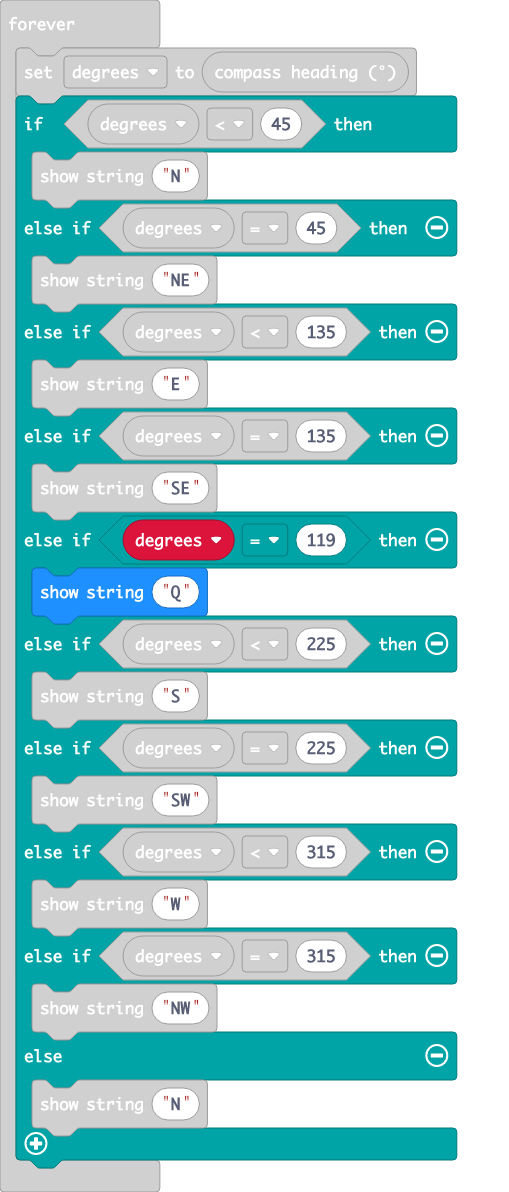
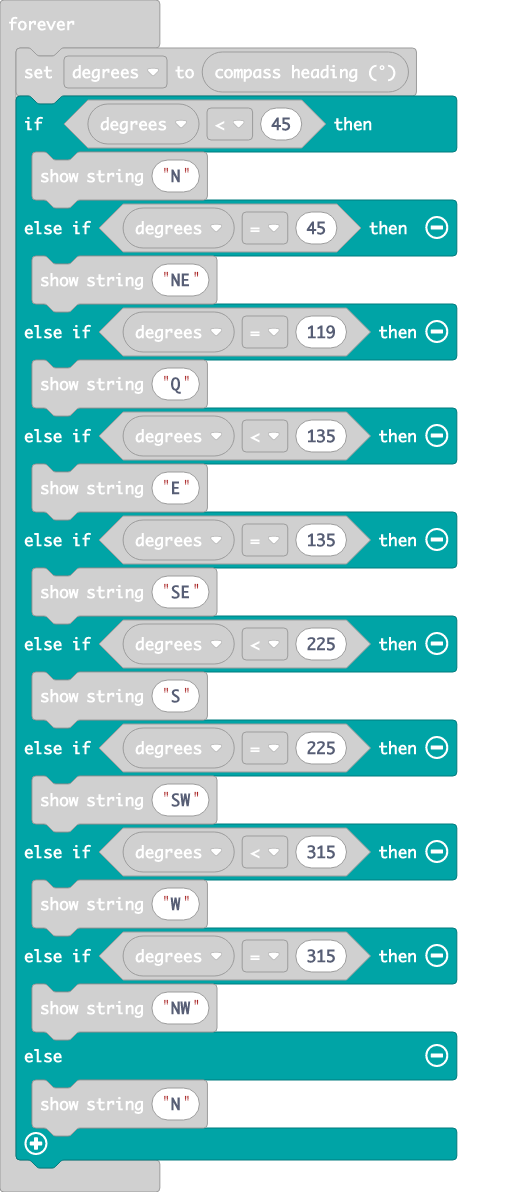
Update pxt.json, main.blocks, main.ts, main.py

Changed region(s): [[0.0589, 0.3725, 0.7367, 0.5277], [0.6189, 0.2483, 0.6483, 0.2794], [0.3242, 0.3104, 0.3536, 0.3414]]

diff --git a/main.ts b/main.ts
@@ -5,12 +5,12 @@ basic.forever(function () {
         basic.showString("N")
     } else if (degrees == 45) {
         basic.showString("NE")
+    } else if (degrees == 119) {
+        basic.showString("Q")
     } else if (degrees < 135) {
         basic.showString("E")
     } else if (degrees == 135) {
         basic.showString("SE")
-    } else if (degrees == 119) {
-        basic.showString("Q")
     } else if (degrees < 225) {
         basic.showString("S")
     } else if (degrees == 225) {

diff --git a/main.py b/main.py
@@ -1,0 +1,26 @@
+degrees = 0
+
+def on_forever():
+    global degrees
+    degrees = input.compass_heading()
+    if degrees < 45:
+        basic.show_string("N")
+    elif degrees == 45:
+        basic.show_string("NE")
+    elif degrees < 120:
+        basic.show_string("Q")
+    elif degrees < 135:
+        basic.show_string("E")
+    elif degrees == 135:
+        basic.show_string("SE")
+    elif degrees < 225:
+        basic.show_string("S")
+    elif degrees == 225:
+        basic.show_string("SW")
+    elif degrees < 315:
+        basic.show_string("W")
+    elif degrees == 315:
+        basic.show_string("NW")
+    else:
+        basic.show_string("N")
+basic.forever(on_forever)
